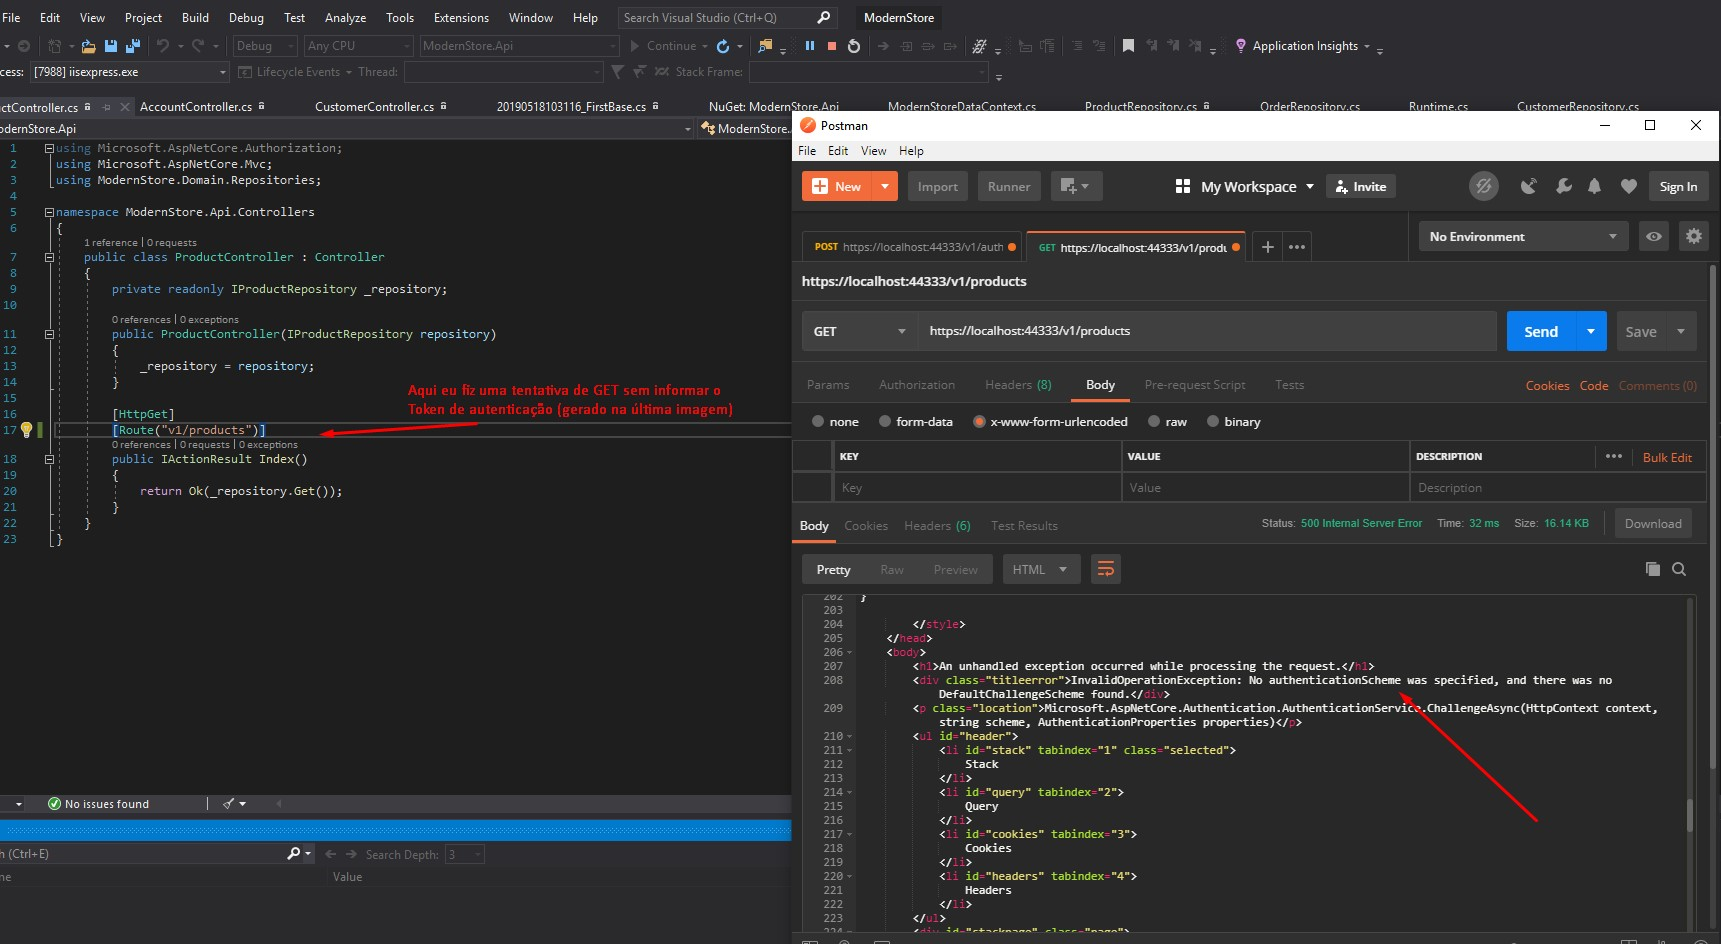
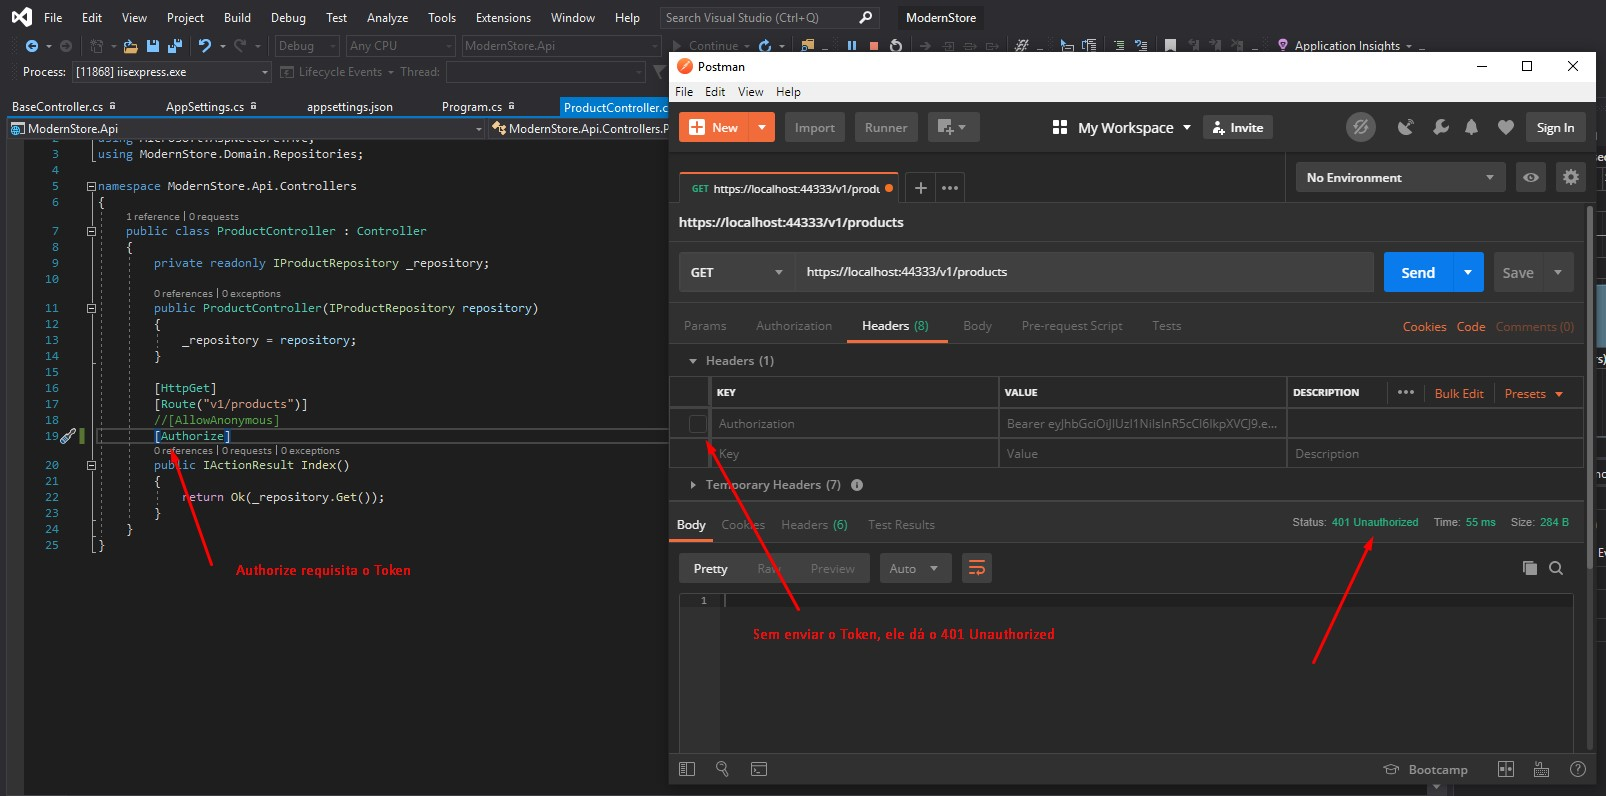
JWT Working Perfect!

diff --git a/src/ModernStore.Api/Startup.cs b/src/ModernStore.Api/Startup.cs
@@ -4,11 +4,13 @@ using Microsoft.AspNetCore.Authentication.JwtBearer;
 using Microsoft.AspNetCore.Authorization;
 using Microsoft.AspNetCore.Builder;
 using Microsoft.AspNetCore.Hosting;
+using Microsoft.AspNetCore.Mvc;
 using Microsoft.AspNetCore.Mvc.Authorization;
 using Microsoft.EntityFrameworkCore;
 using Microsoft.Extensions.Configuration;
 using Microsoft.Extensions.DependencyInjection;
 using Microsoft.IdentityModel.Tokens;
+using ModernStore.Api.Helpers;
 using ModernStore.Api.Security;
 using ModernStore.Domain.Commands.Handlers;
 using ModernStore.Domain.Repositories;
@@ -26,8 +28,8 @@ namespace ModernStore.Api
     public class Startup
     {
         public IConfiguration Configuration { get; set; }
-        private const string ISSUER = "c1f18f15"; //here is the key to be used internaly with JWT. I can put
-        private const string AUDIENCE = "c6bfeb185015"; //anything here, doesn't matter. I can put "pera and
+        //private const string ISSUER = "c1f18f15"; //here is the key to be used internaly with JWT. I can put
+        //private const string AUDIENCE = "c6bfeb185015"; //anything here, doesn't matter. I can put "pera and
         private const string SECRET_KEY = "c1f18f42-5727-4d15-b787-c6bbbb185015"; //"maça" instead of this.
 
         private readonly SymmetricSecurityKey _signingKey = new SymmetricSecurityKey(Encoding.ASCII.GetBytes(SECRET_KEY));
@@ -43,61 +45,50 @@ namespace ModernStore.Api
 
         public void ConfigureServices(IServiceCollection services)
         {
-            services.AddMvc(config =>
-            {
-                //here i configure my policies: Blocking ALL API Access. If i want to allow some WebApi Method to be
-                //called without Authentication, i can use the Decorator [AllowAnonimous] to do it.
-                var policy = new AuthorizationPolicyBuilder()
-                                 .RequireAuthenticatedUser()
-                                 .Build();
-                config.Filters.Add(new AuthorizeFilter(policy));
-            });
             services.AddCors();
+            services.AddMvc().SetCompatibilityVersion(CompatibilityVersion.Version_2_2);
 
-            services.AddAuthorization(options =>
+            // configure strongly typed settings objects
+            var appSettingsSection = Configuration.GetSection("AppSettings");
+            services.Configure<AppSettings>(appSettingsSection);
+
+            // configure jwt authentication
+            var appSettings = appSettingsSection.Get<AppSettings>();
+            var key = Encoding.ASCII.GetBytes(appSettings.Secret);
+            services.AddAuthentication(x =>
             {
-                //here i define that i'll have to policies, for Users and Admins (this is just
-                //the NAMES, i'll define what they do/means after).
-                //options.AddPolicy("User", policy => policy.RequireClaim("ModernStore", "User"));
-                //options.AddPolicy("Admin", policy => policy.RequireClaim("ModernStore", "Admin"));
-                //i can have more complex policies, for example, get on DataBase if that user belongs to Admin Rules or something:
-
-                options.AddPolicy("User", policy => policy.RequireClaim("ModernStore", "User"));
-                options.AddPolicy("Admin", policy => policy.RequireClaim("ModernStore", "Admin"));
+                x.DefaultAuthenticateScheme = JwtBearerDefaults.AuthenticationScheme;
+                x.DefaultChallengeScheme = JwtBearerDefaults.AuthenticationScheme;
+            })
+            .AddJwtBearer(x =>
+            {
+                x.RequireHttpsMetadata = false;
+                x.SaveToken = true;
+                x.TokenValidationParameters = new TokenValidationParameters
+                {                    
+                    ValidateIssuerSigningKey = true,
+                    IssuerSigningKey = new SymmetricSecurityKey(key),
+                    ValidateIssuer = false,
+                    ValidateAudience = false,
+                    ClockSkew = TimeSpan.Zero //avoid UTC problems
+                };
             });
 
-
-
-            services.Configure<TokenOptions>(options =>
-            {
-                options.Issuer = ISSUER;
-                options.Audience = AUDIENCE;
-                options.SigningCredentials = new SigningCredentials(_signingKey, SecurityAlgorithms.HmacSha256);
-            });
-
-            //difference between Scoped and Transient is that: when you start app (server), will be created just ONE instance
-            //of "ModernStoreDataContext". The SAME instance will be passed always when someone asks for ModernStoreDataContext.
-            //(so, because transations and UOW, this is the solution!). The transient will always create a new object. So i say
-            //what's is the interface, and what's the implementation to it. So Scoped is SINGLETON and AddTransient is new object. 
             services.AddScoped<ModernStoreDataContext, ModernStoreDataContext>();
             services.AddTransient<IUow, Uow>();
-
             services.AddTransient<ICustomerRepository, CustomerRepository>();
             services.AddTransient<IOrderRepository, OrderRepository>();
             services.AddTransient<IProductRepository, ProductRepository>();
-
             services.AddTransient<IEmailService, EmailService>();
-
             services.AddTransient<CustomerCommandHandler, CustomerCommandHandler>();
             services.AddTransient<OrderCommandHandler, OrderCommandHandler>();
-
+            
             //i had to ADD this Line because PostMan and AspNet Core are not in a mood...
             services.AddMvc().AddJsonOptions(x => x.SerializerSettings.ReferenceLoopHandling = Newtonsoft.Json.ReferenceLoopHandling.Ignore);
             ////i had to add this line, because MVC is converting my DTOs to Lowercase, so instead of "UserName" it's taking "userName" (even if class is UserName).
             services.AddMvc().AddJsonOptions(options => options.SerializerSettings.ContractResolver = new DefaultContractResolver());
 
-            services.AddDbContext<ModernStoreDataContext>(options =>
-            options.UseSqlServer(Configuration.GetConnectionString("DefaultConnection")));
+            services.AddDbContext<ModernStoreDataContext>(options => options.UseSqlServer(Configuration.GetConnectionString("DefaultConnection")));
 
             services.AddSwaggerGen(x =>
             {
@@ -111,45 +102,20 @@ namespace ModernStore.Api
             if (env.IsDevelopment())
                 app.UseDeveloperExceptionPage();
 
-            var tokenValidationParameters = new TokenValidationParameters
-            {
-                ValidateIssuer = true,
-                ValidIssuer = ISSUER,
+            app.UseCors(x => x
+                .AllowAnyOrigin()
+                .AllowAnyMethod()
+                .AllowAnyHeader());
 
-                ValidateAudience = true,
-                ValidAudience = AUDIENCE,
-
-                ValidateIssuerSigningKey = true,
-                IssuerSigningKey = _signingKey,
-
-                RequireExpirationTime = true,
-                ValidateLifetime = true,
-
-                ClockSkew = TimeSpan.Zero
-            };
-
-            //app.UseJwtBearerAuthentication(new JwtBearerOptions
-            //{
-            //    AutomaticAuthenticate = true,
-            //    AutomaticChallenge = true,
-            //    TokenValidationParameters = tokenValidationParameters
-            //});
-
-            app.UseCors(x =>
-            {
-                x.AllowAnyHeader();
-                x.AllowAnyMethod();
-                x.AllowAnyOrigin();
-            });
-
+            app.UseAuthentication();
             app.UseMvc();
+
             app.UseSwagger();
             app.UseSwaggerUI(c =>
             {
                 c.SwaggerEndpoint("/swagger/v1/swagger.json", "FutureOfMedia - V1");
             });
-            //app.UseAuthentication();
-
+            
             //WOW, when i do it here, my runtime connection string will be available everywhere
             //Including in Repo Project (in my Dapper Get Methods - that's brilliant!).
             Runtime.ConnectionString = Configuration.GetConnectionString("DefaultConnection");

diff --git a/src/ModernStore.Api/Controllers/ProductController.cs b/src/ModernStore.Api/Controllers/ProductController.cs
@@ -15,7 +15,8 @@ namespace ModernStore.Api.Controllers
 
         [HttpGet]
         [Route("v1/products")]
-        
+        //[AllowAnonymous]
+        [Authorize]
         public IActionResult Index()
         {
             return Ok(_repository.Get());

diff --git a/src/ModernStore.Api/Helpers/AppSettings.cs b/src/ModernStore.Api/Helpers/AppSettings.cs
@@ -1,0 +1,7 @@
+namespace ModernStore.Api.Helpers
+{
+    public class AppSettings
+    {
+        public string Secret { get; set; }
+    }
+}
